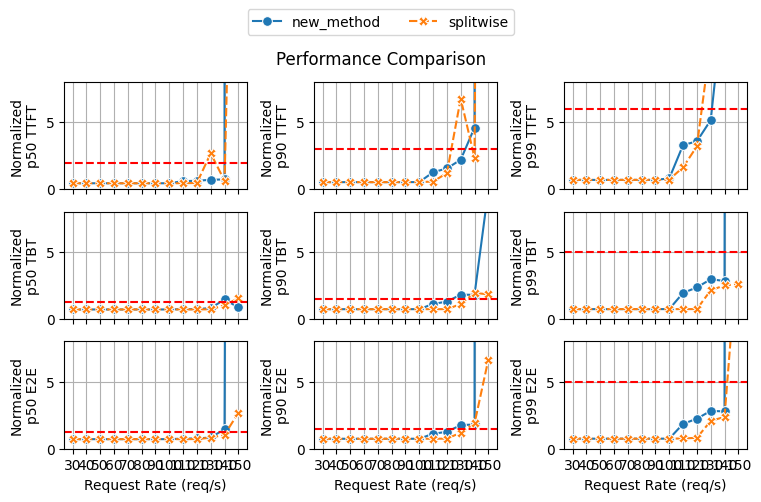
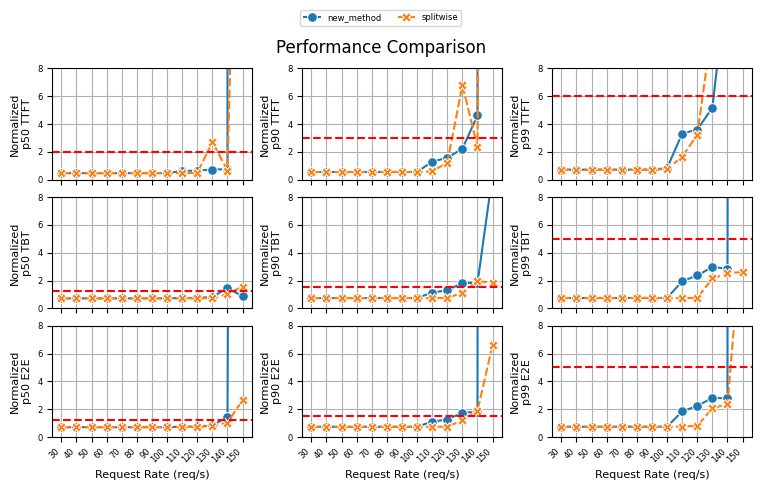
1

Changed region(s): [[0.0, 0.0, 0.9974, 0.9796]]

diff --git a/notebooks/generate_plots.py b/notebooks/generate_plots.py
@@ -1,28 +1,25 @@
-import datetime
-import glob
-import math
 import os
-from pathlib import Path
 import pandas as pd
-import plotly.express as px
-import numpy as np
+import seaborn as sns
 import matplotlib.pyplot as plt
 import matplotlib.colors as mcolors
-import seaborn as sns
-import scipy.stats as stats
-from plotly.subplots import make_subplots
-import sys
-sys.path.append('../notebooks')
-
+import numpy as np
+from utils import get_summary_data, get_request_data
 from perf_model import PerfModel
-from utils import *
 
-# Set the max columns to none
-pd.set_option('display.max_columns', None)
+# 设置全局字体大小，比默认字体小2号
+plt.rcParams.update({
+    'font.size': 8,  # 默认字体大小减小2号
+    'axes.titlesize': 10,  # 标题字体大小
+    'axes.labelsize': 8,   # 轴标签字体大小
+    'xtick.labelsize': 6,  # x轴刻度字体大小
+    'ytick.labelsize': 6,  # y轴刻度字体大小
+    'legend.fontsize': 6,  # 图例字体大小
+    'figure.titlesize': 12 # 图形标题字体大小
+})
 
-# Configuration
 results_dir = "../results"
-plots_dir = "../plots"
+plots_dir = "../plots/new"
 perf_model_path = "../data/perf_model.csv"
 
 def get_data(configs, traces, seed, quantiles=[0.5, 0.9, 0.99], model=""):
@@ -72,6 +69,9 @@ def get_data(configs, traces, seed, quantiles=[0.5, 0.9, 0.99], model=""):
                 result[f"ttft_times_p{int(quantile * 100)}"] = summary_df[f"ttft_times_p{int(quantile * 100)}"][0]
                 result[f"tbt_times_p{int(quantile * 100)}"] = summary_df[f"tbt_times_p{int(quantile * 100)}"][0]
                 result[f"e2e_times_p{int(quantile * 100)}"] = summary_df[f"response_times_p{int(quantile * 100)}"][0]
+                # 添加nth_token_overheads和queue_times的统计信息
+                result[f"nth_token_overheads_p{int(quantile * 100)}"] = request_df["nth_token_overheads"].quantile(quantile)
+                result[f"queue_times_p{int(quantile * 100)}"] = request_df["queue_times"].quantile(quantile)
             result["oom"] = oom
 
             # Save results to later create a dataframe
@@ -155,6 +155,9 @@ def plot_y_vs_trace_new(results_df,
         ax.set_xlabel("Request Rate (req/s)")
         xlabels = [trace.split("_")[2] for trace in traces]
         ax.set_xticks(ticks=range(0, len(traces)), labels=xlabels)
+        # 解决横坐标数字重叠问题
+        ax.tick_params(axis='x', rotation=45)  # 旋转x轴标签
+        ax.set_xticklabels(xlabels, rotation=45, ha='right')  # 设置标签旋转和对齐方式
 
     # Create a single legend in center of figure
     handles, labels = axs[0][0].get_legend_handles_labels()
@@ -177,6 +180,60 @@ def plot_y_vs_trace_new(results_df,
     # Set 300dpi
     plt.gcf().set_dpi(300)
 
+def plot_additional_metrics(results_df,
+                           traces,
+                           y_vars=["nth_token_overheads", "queue_times"],
+                           y_vars_labels=["Nth Token Overheads", "Queue Times"],
+                           quantiles=[0.5, 0.9, 0.99],
+                           title=None):
+    """
+    Create plots for additional metrics like nth_token_overheads and queue_times.
+    """
+    fig, axs = plt.subplots(nrows=len(y_vars),
+                           ncols=len(quantiles),
+                           figsize=(len(quantiles) * 2.5, len(y_vars) * 1.5),
+                           sharex=True,
+                           constrained_layout=True)
+
+    # Plot
+    for y_var in y_vars:
+        for quantile in quantiles:
+            sns.lineplot(data=results_df,
+                         x="trace",
+                         y=f"{y_var}_p{int(quantile * 100)}",
+                         hue="name",
+                         style="name",
+                         markers=True,
+                         markersize=7,
+                         ax=axs[y_vars.index(y_var)][quantiles.index(quantile)])
+
+    for ax in axs.flatten():
+        ax.grid()
+        ax.get_legend().set_visible(False)
+        ax.set_xlabel("Request Rate (req/s)")
+        xlabels = [trace.split("_")[2] for trace in traces]
+        ax.set_xticks(ticks=range(0, len(traces)), labels=xlabels)
+        # 解决横坐标数字重叠问题
+        ax.tick_params(axis='x', rotation=45)
+        ax.set_xticklabels(xlabels, rotation=45, ha='right')
+
+    # Create a single legend in center of figure
+    handles, labels = axs[0][0].get_legend_handles_labels()
+    fig.legend(handles, labels, loc='lower center', ncol=3, title="", bbox_to_anchor=(0.5, 1.01))
+
+    for y_var in y_vars:
+        for quantile in quantiles:
+            axs[y_vars.index(y_var)][quantiles.index(quantile)].set_ylabel(
+                f"Time (s)\np{int(quantile*100)} {y_vars_labels[y_vars.index(y_var)]}")
+            # 设置y轴范围
+            axs[y_vars.index(y_var)][quantiles.index(quantile)].set_ylim(bottom=0)
+            
+    if title:
+        fig.suptitle(title)
+
+    plt.margins(x=0)
+    # Set 300dpi
+    plt.gcf().set_dpi(300)
 
 def main():
     """
@@ -200,23 +257,37 @@ def main():
     configs = [adaptive_mixed_pool_config, mixed_pool_config]
     
     # Define traces for different loads (rr_code_x where x varies)
-    traces = [f"rr_conv_{i}" for i in range(30, 160, 10)]  # Example range
+    traces_index = 0
+    traces_name =['conv','code']
+    traces = [f"rr_{traces_name[traces_index]}_{i}" for i in range(30, 160, 10)]  # Example range
     
     # Get data
     results_df, request_dfs = get_data(configs, traces, seed=0, model="bloom-176b")
     
-    # Generate plots
+    # Generate plots for slowdown metrics
     plot_y_vs_trace_new(
         results_df,
         traces,
         y_vars=["ttft_slowdown", "tbt_slowdown", "e2e_slowdown"],
-        y_vars_labels=["TTFT", "TBT", "E2E"],  # 添加这行以确保标签正确
-        title="Performance Comparison"
+        y_vars_labels=["TTFT", "TBT", "E2E"],
+        title=None
     )
     
     # Save plot
     os.makedirs(plots_dir, exist_ok=True)
-    plt.savefig(f"{plots_dir}/TTFT-TBT-conv-new.png", bbox_inches='tight')
+    plt.savefig(f"{plots_dir}/TTFT-TBT-{traces_name[traces_index]}-new.png", bbox_inches='tight')
+    
+    # Generate plots for additional metrics (nth_token_overheads and queue_times)
+    plot_additional_metrics(
+        results_df,
+        traces,
+        y_vars=["nth_token_overheads", "queue_times"],
+        y_vars_labels=["Nth Token Overheads", "Queue Times"],
+        title=None
+    )
+    
+    # Save additional metrics plot
+    plt.savefig(f"{plots_dir}/additional_metrics_{traces_name[traces_index]}-new.png", bbox_inches='tight')
     # plt.show()
 
 if __name__ == "__main__":
